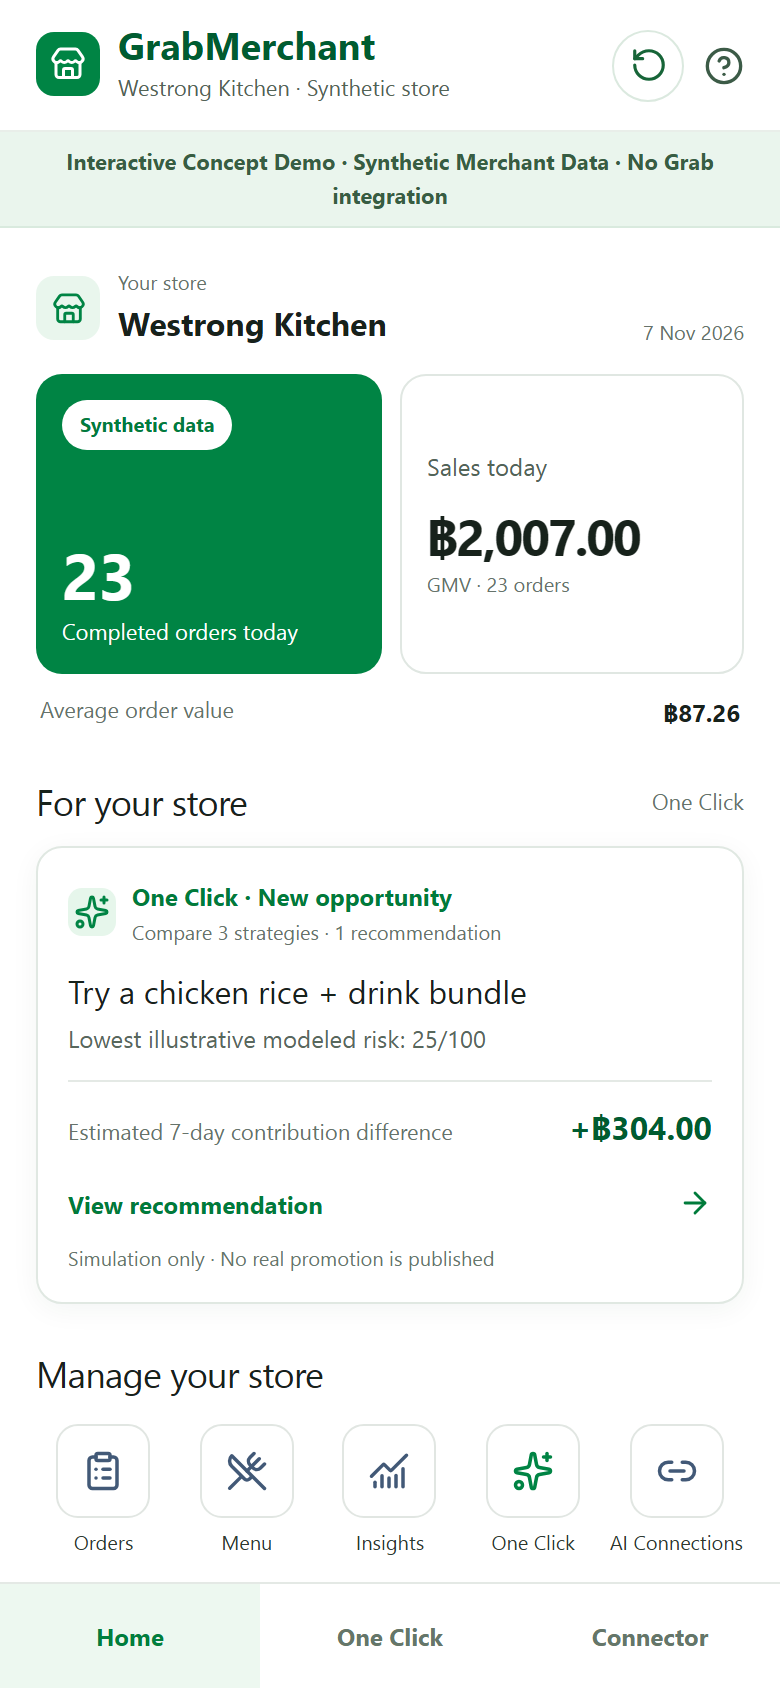
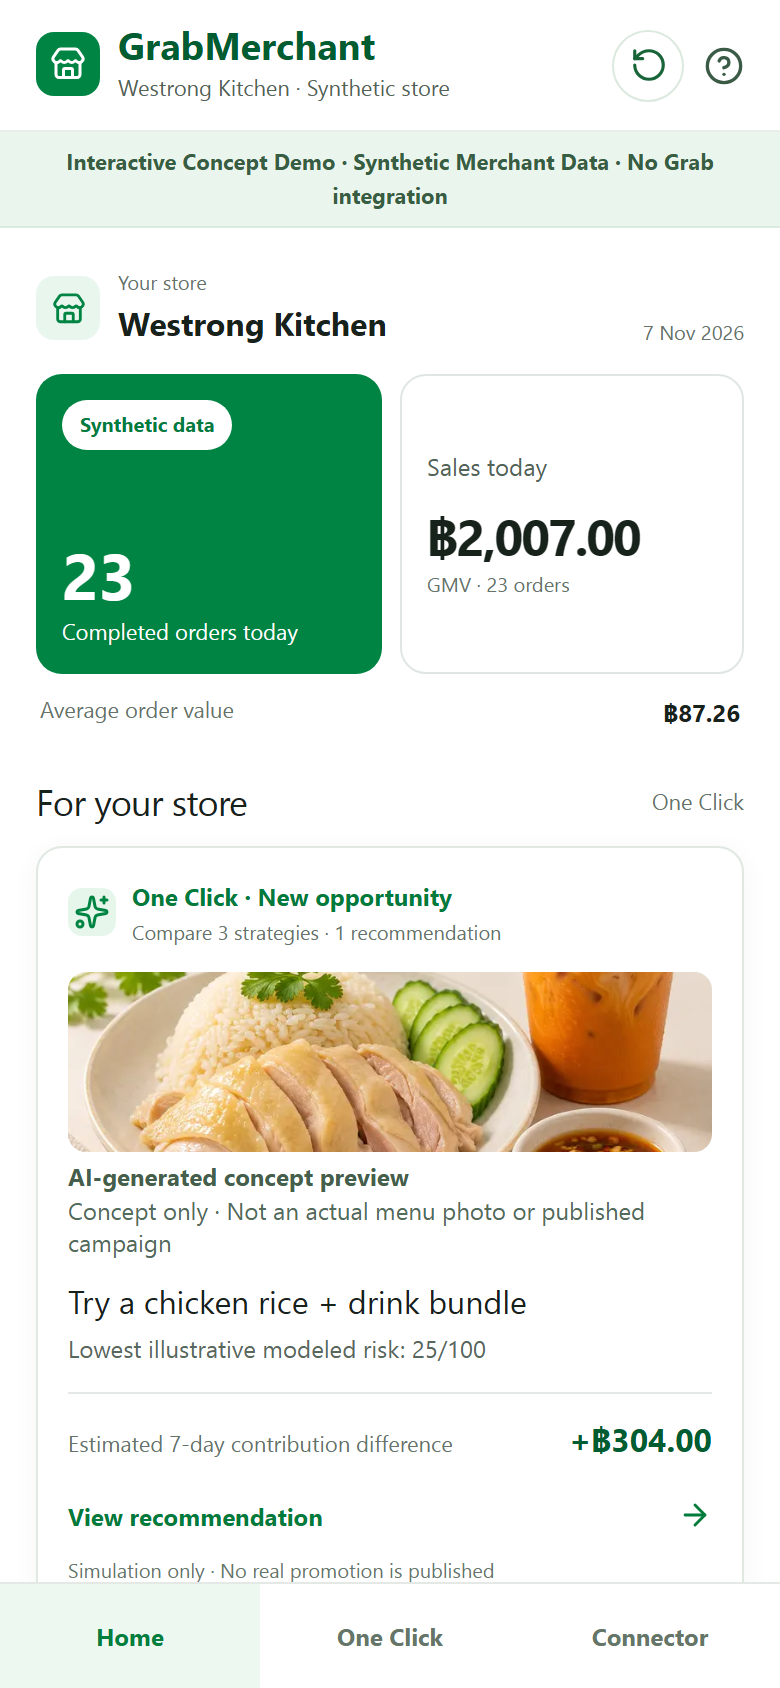
Add concept imagery to both merchant home views

Changed region(s): [[0.0308, 0.5545, 0.9231, 0.955], [0.7385, 0.8318, 0.9538, 0.9242], [0.6462, 0.8626, 0.7385, 0.9242]]

diff --git a/frontend/components/judge-demo.tsx b/frontend/components/judge-demo.tsx
@@ -63,7 +63,7 @@ export function JudgeDemo() {
       <header className="judge-header"><button type="button" className="judge-brand" onClick={() => go("home")} aria-label="Return to Merchant Home"><span className="brand-mark"><Store size={18} /></span><span><strong>GrabMerchant</strong><small>Westrong Kitchen · Synthetic store</small></span></button><div className="judge-header-actions"><button type="button" onClick={reset} title="Reset demo" aria-label="Reset demo"><RotateCcw size={19} /></button><span title="Unofficial interactive concept" aria-label="Unofficial interactive concept"><CircleHelp size={20} /></span></div></header>
       <div className="judge-ribbon">Interactive Concept Demo · Synthetic Merchant Data · No Grab integration</div>
       <main id="main-content" className="judge-main" key={state.view}>
-        {(state.view === "home" || state.view === "c1-home" || state.view === "recommendation") && <JudgeMerchantHome approved={Boolean(state.c1.approved)} resultReady={state.c1.resultReady} reviewed={state.c1.reviewed} onOneClick={() => go(state.c1.resultReady ? "results" : state.c1.approved ? "processing" : "recommendation")} onConnector={() => go("connections")} />}
+        {(state.view === "home" || state.view === "c1-home" || state.view === "recommendation") && <JudgeMerchantHome approvedStrategy={state.c1.approved} resultReady={state.c1.resultReady} reviewed={state.c1.reviewed} onOneClick={() => go(state.c1.resultReady ? "results" : state.c1.approved ? "processing" : "recommendation")} onConnector={() => go("connections")} />}
         {state.view === "recommendation" && <div ref={recommendationRef} className="judge-recommendation" role="dialog" aria-modal="true" aria-label="One Click recommendation" aria-owns="judge-consent-footer"><div className="judge-sheet-heading"><Back onClick={() => go("c1-home")} label="Merchant Home" /><span className="strategy-sheet-kicker"><Sparkles size={16} /> One Click · AI growth recommendation</span><h1>Recommended: {strategyNames[recommendation.strategy_id]}</h1><p>Compare three prepared strategies. The merchant can select any eligible option.</p><small>Illustrative risk (0–100), lower is better. Estimates are 7-day contribution differences, not validated forecasts.</small></div><div className="judge-cards">{ordered.map(item => <JudgeStrategyCard key={item.strategy_id} item={item} selected={state.c1.selected === item.strategy_id} recommended={item.strategy_id === evaluation.recommended_strategy_id} onSelect={() => select(item.strategy_id)} onDetails={() => details(item.strategy_id)} />)}</div><div className="judge-recommendation-note"><ShieldCheck size={17} /><span>AI recommends Bundle for its lowest illustrative modeled risk. <strong>You selected {strategyNames[chosen.strategy_id]}.</strong></span></div><div className="judge-inline-actions"><button type="button" onClick={() => go("comparison")}>Compare details</button><button type="button" onClick={() => go("c1-home")}>Review later</button></div></div>}
 
         {state.view === "comparison" && <div className="judge-page"><Back onClick={() => go("recommendation")} label="Recommendation" /><span className="judge-eyebrow">OPTIONAL COMPARISON</span><h1>Compare strategies</h1><p className="judge-lead">Same 40-order baseline and 7-day synthetic assumptions for each option.</p><div className="judge-compare-table" role="table" aria-label="Three-strategy financial comparison"><div className="judge-compare-head" role="row"><span>Strategy</span><span>Contribution</span><span>Risk</span></div>{ordered.map(item => <div className="judge-compare-row" role="row" key={item.strategy_id}><strong>{strategyNames[item.strategy_id]}{state.c1.selected === item.strategy_id ? " · Selected" : ""}</strong><span>{baht(item.estimated_7d_contribution)}<small className={`impact-${impactTone(item.estimated_difference)}`}>{baht(item.estimated_difference, true)} vs baseline</small></span><b>{item.risk_score}/100</b></div>)}</div><p className="judge-disclosure">Illustrative risk score, not a validated probability. Higher modeled contribution does not guarantee actual sales.</p><button type="button" className="primary-button" onClick={() => go("recommendation")}>Back to selection and approval <ArrowRight size={17} /></button></div>}
@@ -83,7 +83,8 @@ export function JudgeDemo() {
   </div>;
 }
 
-function JudgeMerchantHome({ approved, resultReady, reviewed, onOneClick, onConnector }: { approved: boolean; resultReady: boolean; reviewed: boolean; onOneClick: () => void; onConnector: () => void }) {
+function JudgeMerchantHome({ approvedStrategy, resultReady, reviewed, onOneClick, onConnector }: { approvedStrategy: StrategyId | null; resultReady: boolean; reviewed: boolean; onOneClick: () => void; onConnector: () => void }) {
+  const approved = approvedStrategy !== null;
   const opportunityTitle = approved ? resultReady ? "Review your simulated mission result" : "Continue your simulated mission" : "Try a chicken rice + drink bundle";
   const actionLabel = resultReady ? "View simulated result" : approved ? "Continue mission" : "View recommendation";
   const jumpTo = (id: string) => document.getElementById(id)?.scrollIntoView({ behavior: "smooth", block: "start" });
@@ -91,7 +92,7 @@ function JudgeMerchantHome({ approved, resultReady, reviewed, onOneClick, onConn
     <div className="home-store-context"><div className="home-store-pick"><span className="home-store-icon"><Store size={17} /></span><span><small>Your store</small><strong>Westrong Kitchen</strong></span></div><span className="home-date">{thaiDate(dashboard.today.from)}</span></div>
     <section id="judge-orders" className="merchant-highlights" aria-label="Today's synthetic overview"><div className="highlight-orders"><span className="highlight-pill">Synthetic data</span><strong>{dashboard.today.orders}</strong><span>Completed orders today</span></div><div className="highlight-sales"><span>Sales today</span><strong>{baht(dashboard.today.gmv)}</strong><small>GMV · {dashboard.today.orders} orders</small></div></section>
     <div className="home-aov">Average order value <strong>{baht(dashboard.today.aov)}</strong></div>
-    <section className="home-for-you" aria-labelledby="judge-for-you-heading"><div className="home-feature-heading"><h2 id="judge-for-you-heading">For your store</h2><span>One Click</span></div><article className="home-recommendation"><div className="home-recommendation-top"><span className="native-ai-icon"><Sparkles size={18} /></span><span><strong>{approved ? "One Click · Simulated mission" : "One Click · New opportunity"}</strong><small>{approved ? reviewed ? "Result reviewed" : resultReady ? "Result ready for review" : "Approved in this demo session" : "Compare 3 strategies · 1 recommendation"}</small></span></div><h3>{opportunityTitle}</h3><p>{approved ? "Your selected strategy stays in this browser session. No real promotion was published." : `Lowest illustrative modeled risk: ${recommendation.risk_score}/100`}</p><div className="home-recommendation-impact"><span>{approved ? "Mission status" : "Estimated 7-day contribution difference"}</span><strong className={approved ? "status-copy" : undefined}>{approved ? reviewed ? "Result reviewed" : resultReady ? "Simulated result ready" : "Approved for simulation" : baht(recommendation.estimated_difference, true)}</strong></div><button type="button" className="home-recommendation-link" onClick={onOneClick}>{actionLabel} <ArrowRight size={17} /></button><small className="home-recommendation-disclaimer">Simulation only · No real promotion is published</small></article></section>
+    <section className="home-for-you" aria-labelledby="judge-for-you-heading"><div className="home-feature-heading"><h2 id="judge-for-you-heading">For your store</h2><span>One Click</span></div><article className="home-recommendation"><div className="home-recommendation-top"><span className="native-ai-icon"><Sparkles size={18} /></span><span><strong>{approved ? "One Click · Simulated mission" : "One Click · New opportunity"}</strong><small>{approved ? reviewed ? "Result reviewed" : resultReady ? "Result ready for review" : "Approved in this demo session" : "Compare 3 strategies · 1 recommendation"}</small></span></div><div className="home-recommendation-visual"><StrategyVisual strategyId={approvedStrategy ?? recommendation.strategy_id} variant="hero" /><small>Concept only · Not an actual menu photo or published campaign</small></div><h3>{opportunityTitle}</h3><p>{approved ? "Your selected strategy stays in this browser session. No real promotion was published." : `Lowest illustrative modeled risk: ${recommendation.risk_score}/100`}</p><div className="home-recommendation-impact"><span>{approved ? "Mission status" : "Estimated 7-day contribution difference"}</span><strong className={approved ? "status-copy" : undefined}>{approved ? reviewed ? "Result reviewed" : resultReady ? "Simulated result ready" : "Approved for simulation" : baht(recommendation.estimated_difference, true)}</strong></div><button type="button" className="home-recommendation-link" onClick={onOneClick}>{actionLabel} <ArrowRight size={17} /></button><small className="home-recommendation-disclaimer">Simulation only · No real promotion is published</small></article></section>
     <section className="merchant-shortcuts" aria-labelledby="judge-shortcuts-heading"><h2 id="judge-shortcuts-heading">Manage your store</h2><nav className="merchant-shortcut-grid" aria-label="Store shortcuts"><button type="button" onClick={() => jumpTo("judge-orders")}><span><ClipboardList size={21} /></span>Orders</button><button type="button" onClick={() => jumpTo("judge-menu")}><span><UtensilsCrossed size={21} /></span>Menu</button><button type="button" onClick={() => jumpTo("judge-insights")}><span><ChartNoAxesCombined size={21} /></span>Insights</button><button type="button" onClick={onOneClick}><span><Sparkles size={21} /></span>One Click</button><button type="button" onClick={onConnector}><span><Link2 size={21} /></span>AI Connections</button></nav></section>
     <section id="judge-insights" className="home-compact-section" aria-labelledby="judge-trend-heading"><div className="compact-heading"><div><span>INSIGHTS · SYNTHETIC</span><h2 id="judge-trend-heading">Sales over the past 6 months</h2></div></div><TrendBars months={dashboard.monthly_trend} /></section>
     <section id="judge-menu" className="home-compact-section" aria-labelledby="judge-top-heading"><div className="compact-heading"><div><span>TOP MENU ITEMS</span><h2 id="judge-top-heading">Popular items</h2></div></div><ol className="compact-ranking">{dashboard.top_items.slice(0, 3).map((item, index) => <li key={item.menu_item_id}><span className="rank">{index + 1}</span><span><strong>{item.name}</strong><small>{item.units} sold</small></span><b>{baht(item.gmv)}</b></li>)}</ol></section>

diff --git a/frontend/app/page.tsx b/frontend/app/page.tsx
@@ -5,6 +5,7 @@ import { baht, thaiDate } from "@/lib/format";
 import { DataState } from "@/components/data-state";
 import { TrendBars } from "@/components/trend-bars";
 import { HomeOpportunityPopup } from "@/components/home-opportunity-popup";
+import { StrategyVisual } from "@/components/strategy-visual";
 import type { Dashboard, Merchant, ScenarioComparison, Mission, StrategyEvaluation } from "@/types/api";
 import { JudgeDemo } from "@/components/judge-demo";
 
@@ -23,6 +24,7 @@ export default async function Home({ searchParams }: { searchParams: Promise<{ o
   } catch (error) { return <div className="page-content"><DataState error={error} /></div>; }
   const latest = [...missionList].filter(item => item.status !== "proposed").sort((a, b) => (b.events.at(-1)?.occurred_at ?? "").localeCompare(a.events.at(-1)?.occurred_at ?? ""))[0];
   const recommendedCase = evaluation?.strategies.find(item => item.strategy_id === evaluation.recommended_strategy_id);
+  const homeVisualStrategy = recommendedCase?.strategy_id ?? latest?.approved_strategy_id;
   const forcePopup = (await searchParams).oneclick === "1";
   return <div className="page-content home-page home-fidelity">
     {data.opportunity && comparison && evaluation && <HomeOpportunityPopup mission={data.opportunity} initialComparison={comparison} initialEvaluation={evaluation} forceOpen={forcePopup} />}
@@ -31,7 +33,7 @@ export default async function Home({ searchParams }: { searchParams: Promise<{ o
     <section className="merchant-highlights" aria-label="Today's overview"><div className="highlight-orders"><span className="highlight-pill">Synthetic data</span><strong>{data.today.orders}</strong><span>Completed orders today</span></div><div className="highlight-sales"><span>Sales today</span><strong>{baht(data.today.gmv)}</strong><small>GMV · {data.today.orders} orders</small></div></section>
     <div className="home-aov">Average order value <strong>{baht(data.today.aov)}</strong></div>
 
-    <section className="home-for-you" aria-labelledby="for-you-heading"><div className="home-feature-heading"><h2 id="for-you-heading">For your store</h2><span>One Click</span></div><article className="home-recommendation"><div className="home-recommendation-top"><span className="native-ai-icon"><Sparkles size={18} /></span><span><strong>One Click · New opportunity</strong><small>Compare 3 strategies · 1 recommendation</small></span></div>{data.opportunity ? <><h3>{recommendedCase?.strategy_id === "bundle" && /chicken rice.*drink/i.test(comparison?.proposed.label ?? "") ? "Try a chicken rice + drink bundle" : recommendedCase ? `Try ${recommendedCase.description.toLowerCase()}` : data.opportunity.title}</h3><p>{recommendedCase ? `Lowest illustrative modeled risk: ${recommendedCase.risk_score}/100` : data.opportunity.rationale}</p>{recommendedCase && <div className="home-recommendation-impact"><span>Estimated 7-day contribution difference</span><strong>{baht(recommendedCase.estimated_difference, true)}</strong></div>}<Link href={`/opportunity?id=${data.opportunity.id}`} className="home-recommendation-link">View recommendation <ArrowRight size={17} /></Link></> : latest ? <><h3>Track your mission</h3><p>{latest.title}</p><div className="home-recommendation-impact"><span>Status</span><strong className="status-copy">{latest.status === "completed" ? "Simulated result ready" : latest.status === "reviewed" ? "Simulated result reviewed" : latest.status === "approved" ? "Simulation approved" : latest.status}</strong></div><Link href={`/missions/${latest.id}`} className="home-recommendation-link">Track mission <ArrowRight size={17} /></Link></> : <><h3>No new opportunities</h3><p>Review previous simulated missions in One Click</p><Link href="/ai" className="home-recommendation-link">Open One Click <ArrowRight size={17} /></Link></>}<small className="home-recommendation-disclaimer">Simulation only · No real promotion is published</small></article></section>
+    <section className="home-for-you" aria-labelledby="for-you-heading"><div className="home-feature-heading"><h2 id="for-you-heading">For your store</h2><span>One Click</span></div><article className="home-recommendation"><div className="home-recommendation-top"><span className="native-ai-icon"><Sparkles size={18} /></span><span><strong>One Click · New opportunity</strong><small>Compare 3 strategies · 1 recommendation</small></span></div>{homeVisualStrategy && <div className="home-recommendation-visual"><StrategyVisual strategyId={homeVisualStrategy} variant="hero" /><small>Concept only · Not an actual menu photo or published campaign</small></div>}{data.opportunity ? <><h3>{recommendedCase?.strategy_id === "bundle" && /chicken rice.*drink/i.test(comparison?.proposed.label ?? "") ? "Try a chicken rice + drink bundle" : recommendedCase ? `Try ${recommendedCase.description.toLowerCase()}` : data.opportunity.title}</h3><p>{recommendedCase ? `Lowest illustrative modeled risk: ${recommendedCase.risk_score}/100` : data.opportunity.rationale}</p>{recommendedCase && <div className="home-recommendation-impact"><span>Estimated 7-day contribution difference</span><strong>{baht(recommendedCase.estimated_difference, true)}</strong></div>}<Link href={`/opportunity?id=${data.opportunity.id}`} className="home-recommendation-link">View recommendation <ArrowRight size={17} /></Link></> : latest ? <><h3>Track your mission</h3><p>{latest.title}</p><div className="home-recommendation-impact"><span>Status</span><strong className="status-copy">{latest.status === "completed" ? "Simulated result ready" : latest.status === "reviewed" ? "Simulated result reviewed" : latest.status === "approved" ? "Simulation approved" : latest.status}</strong></div><Link href={`/missions/${latest.id}`} className="home-recommendation-link">Track mission <ArrowRight size={17} /></Link></> : <><h3>No new opportunities</h3><p>Review previous simulated missions in One Click</p><Link href="/ai" className="home-recommendation-link">Open One Click <ArrowRight size={17} /></Link></>}<small className="home-recommendation-disclaimer">Simulation only · No real promotion is published</small></article></section>
 
     <section className="merchant-shortcuts" aria-labelledby="shortcuts-heading"><h2 id="shortcuts-heading">Manage your store</h2><nav className="merchant-shortcut-grid" aria-label="Store shortcuts"><Link href="/orders"><span><ClipboardList size={21} /></span>Orders</Link><Link href="/menu"><span><UtensilsCrossed size={21} /></span>Menu</Link><Link href="/performance"><span><ChartNoAxesCombined size={21} /></span>Insights</Link><Link href="/ai"><span><Sparkles size={21} /></span>One Click</Link><Link href="/missions"><span><ListChecks size={21} /></span>Missions</Link></nav></section>
 

diff --git a/frontend/app/fidelity.css b/frontend/app/fidelity.css
@@ -9,6 +9,10 @@ body { font-family:"Leelawadee UI", "Noto Sans Thai", Tahoma, "Segoe UI", sans-s
 .merchant-highlights { display:grid; grid-template-columns:1fr 1fr; gap:9px; }.merchant-highlights > div { min-width:0; min-height:150px; border-radius:13px; padding:13px; }.highlight-orders { display:flex; flex-direction:column; justify-content:flex-end; background:var(--green); color:#fff; }.highlight-pill { align-self:start; margin-bottom:auto; padding:5px 9px; border-radius:20px; background:#fff; color:#007c3e; font-size:10px; font-weight:750; }.highlight-orders > strong { font-size:32px; line-height:1; }.highlight-orders > span:last-child { margin-top:5px; font-size:11px; }.highlight-sales { display:flex; flex-direction:column; justify-content:center; border:1px solid #e0e7e2; background:#fff; }.highlight-sales > span { color:#526458; font-size:12px; }.highlight-sales > strong { margin:12px 0 4px; font-size:25px; line-height:1.1; letter-spacing:-.04em; font-variant-numeric:tabular-nums; white-space:nowrap; }.highlight-sales > small { color:var(--muted); font-size:10px; }.home-aov { display:flex; justify-content:space-between; gap:8px; margin-top:10px; padding:0 2px; color:var(--muted); font-size:11px; }.home-aov strong { color:var(--text); font-size:12px; }
 .home-for-you { margin-top:25px; }.home-feature-heading { display:flex; align-items:center; justify-content:space-between; gap:8px; }.home-feature-heading h2,.merchant-shortcuts h2 { margin:0; font-size:18px; line-height:1.25; letter-spacing:-.02em; }.home-feature-heading > span { color:var(--muted); font-size:11px; }
 .home-recommendation { margin-top:10px; padding:15px; border:1px solid #e0e8e2; border-radius:13px; background:#fff; box-shadow:0 3px 14px #1b3d230d; }.home-recommendation-top { display:flex; align-items:center; gap:8px; }.home-recommendation-top > span:last-child { display:flex; flex-direction:column; gap:2px; }.home-recommendation-top strong { color:var(--green-dark); font-size:12px; }.home-recommendation-top small { color:var(--muted); font-size:10px; }.home-recommendation h3 { margin:12px 0 5px; font-size:16px; line-height:1.25; }.home-recommendation p { margin:0; color:#58685d; font-size:12px; line-height:1.45; }.home-recommendation-impact { display:flex; align-items:baseline; justify-content:space-between; gap:7px; margin-top:12px; padding-top:11px; border-top:1px solid var(--line); }.home-recommendation-impact span { color:var(--muted); font-size:11px; }.home-recommendation-impact strong { color:var(--green-deep); font-size:16px; font-variant-numeric:tabular-nums; white-space:nowrap; }.home-recommendation-impact small { font-size:10px; }.home-recommendation-impact .status-copy { font-size:12px; white-space:normal; text-align:right; }.home-recommendation-link { display:flex; align-items:center; justify-content:space-between; min-height:42px; margin-top:5px; color:var(--green-dark); font-size:12px; font-weight:750; }.home-recommendation-disclaimer { display:block; color:#67766c; font-size:10px; line-height:1.35; }
+.home-recommendation-visual { margin-top:12px; }
+.home-recommendation-visual .strategy-visual.is-hero .strategy-visual-image { height:90px; }
+.home-recommendation-visual .strategy-visual-caption { font-size:12px; font-weight:700; }
+.home-recommendation-visual > small { display:block; margin-top:2px; color:#536b5b; font-size:12px; line-height:1.3; }
 .merchant-shortcuts { margin-top:24px; }.merchant-shortcut-grid { display:grid; grid-template-columns:repeat(5,1fr); gap:4px; margin-top:13px; }.merchant-shortcut-grid a { display:flex; align-items:center; flex-direction:column; gap:6px; text-align:center; color:#2e3931; font-size:10px; line-height:1.25; }.merchant-shortcut-grid a > span { width:47px; height:47px; display:grid; place-items:center; border:1px solid #e1e6e2; border-radius:11px; color:#425977; background:#fff; }.merchant-shortcut-grid a:nth-child(4) > span { color:var(--green); }.merchant-shortcut-grid a:focus-visible > span,.merchant-shortcut-grid a:hover > span { border-color:var(--green); background:#f0faf2; }
 .home-compact-section { margin-top:28px; }.compact-heading h2 { font-size:17px; }.compact-heading span { font-size:10px; }.compact-ranking strong,.compact-ranking b { font-size:12px; }.compact-ranking small { font-size:10px; }.footnote { font-size:10px; }
 .native-page-header h1 { font-size:23px; }.native-page-header > p:last-child { font-size:12px; }.native-tabs a { font-size:12px; }.order-snapshot span:not(.order-snapshot-icon) { font-size:11px; }.order-snapshot strong { font-size:25px; }.native-list-row { font-size:12px; }.inline-limitation { font-size:11px; }.menu-overview-line { font-size:12px; }.menu-category-head h2 { font-size:16px; }.native-menu-item-copy strong { font-size:13px; }.native-menu-item-copy small,.availability { font-size:11px; }.native-menu-price { font-size:13px; }.insights-summary > span { font-size:12px; }.insights-summary > div span { font-size:11px; }.ai-native-opportunity h3 { font-size:17px; }.ai-native-opportunity p { font-size:12px; }.mission-row strong { font-size:12px; }.mission-row small { font-size:10px; }.journey-header h1,.tracking-page h1 { font-size:23px; }.journey-header p { font-size:12px; }.journey-panel h2,.outcome-section h2 { font-size:18px; }.journey-panel > p:not(.section-kicker) { font-size:12px; }.cost-field { font-size:12px; }
